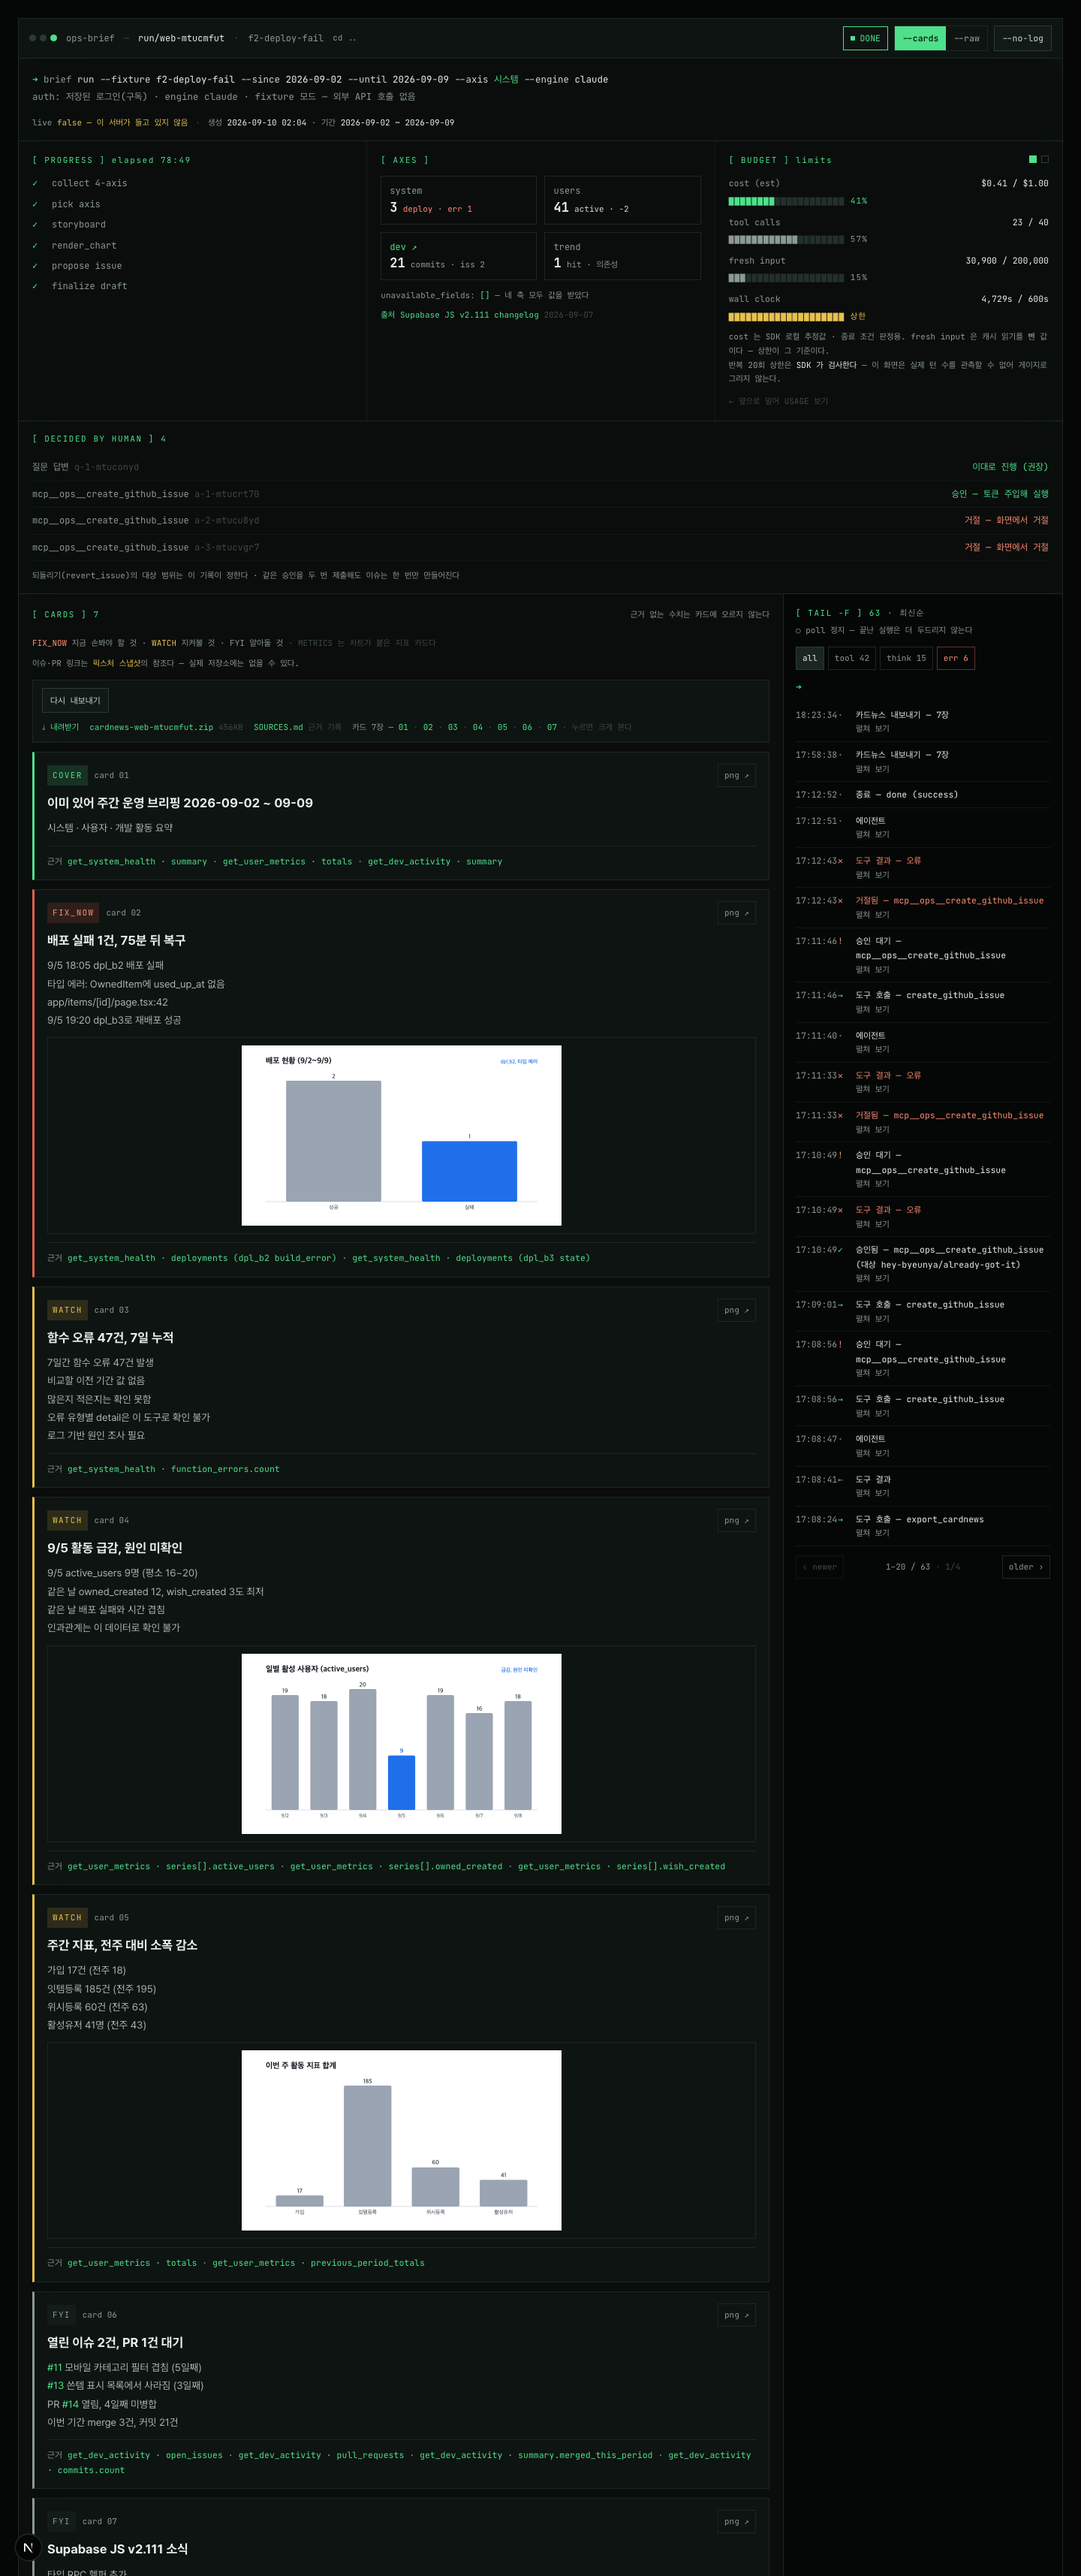
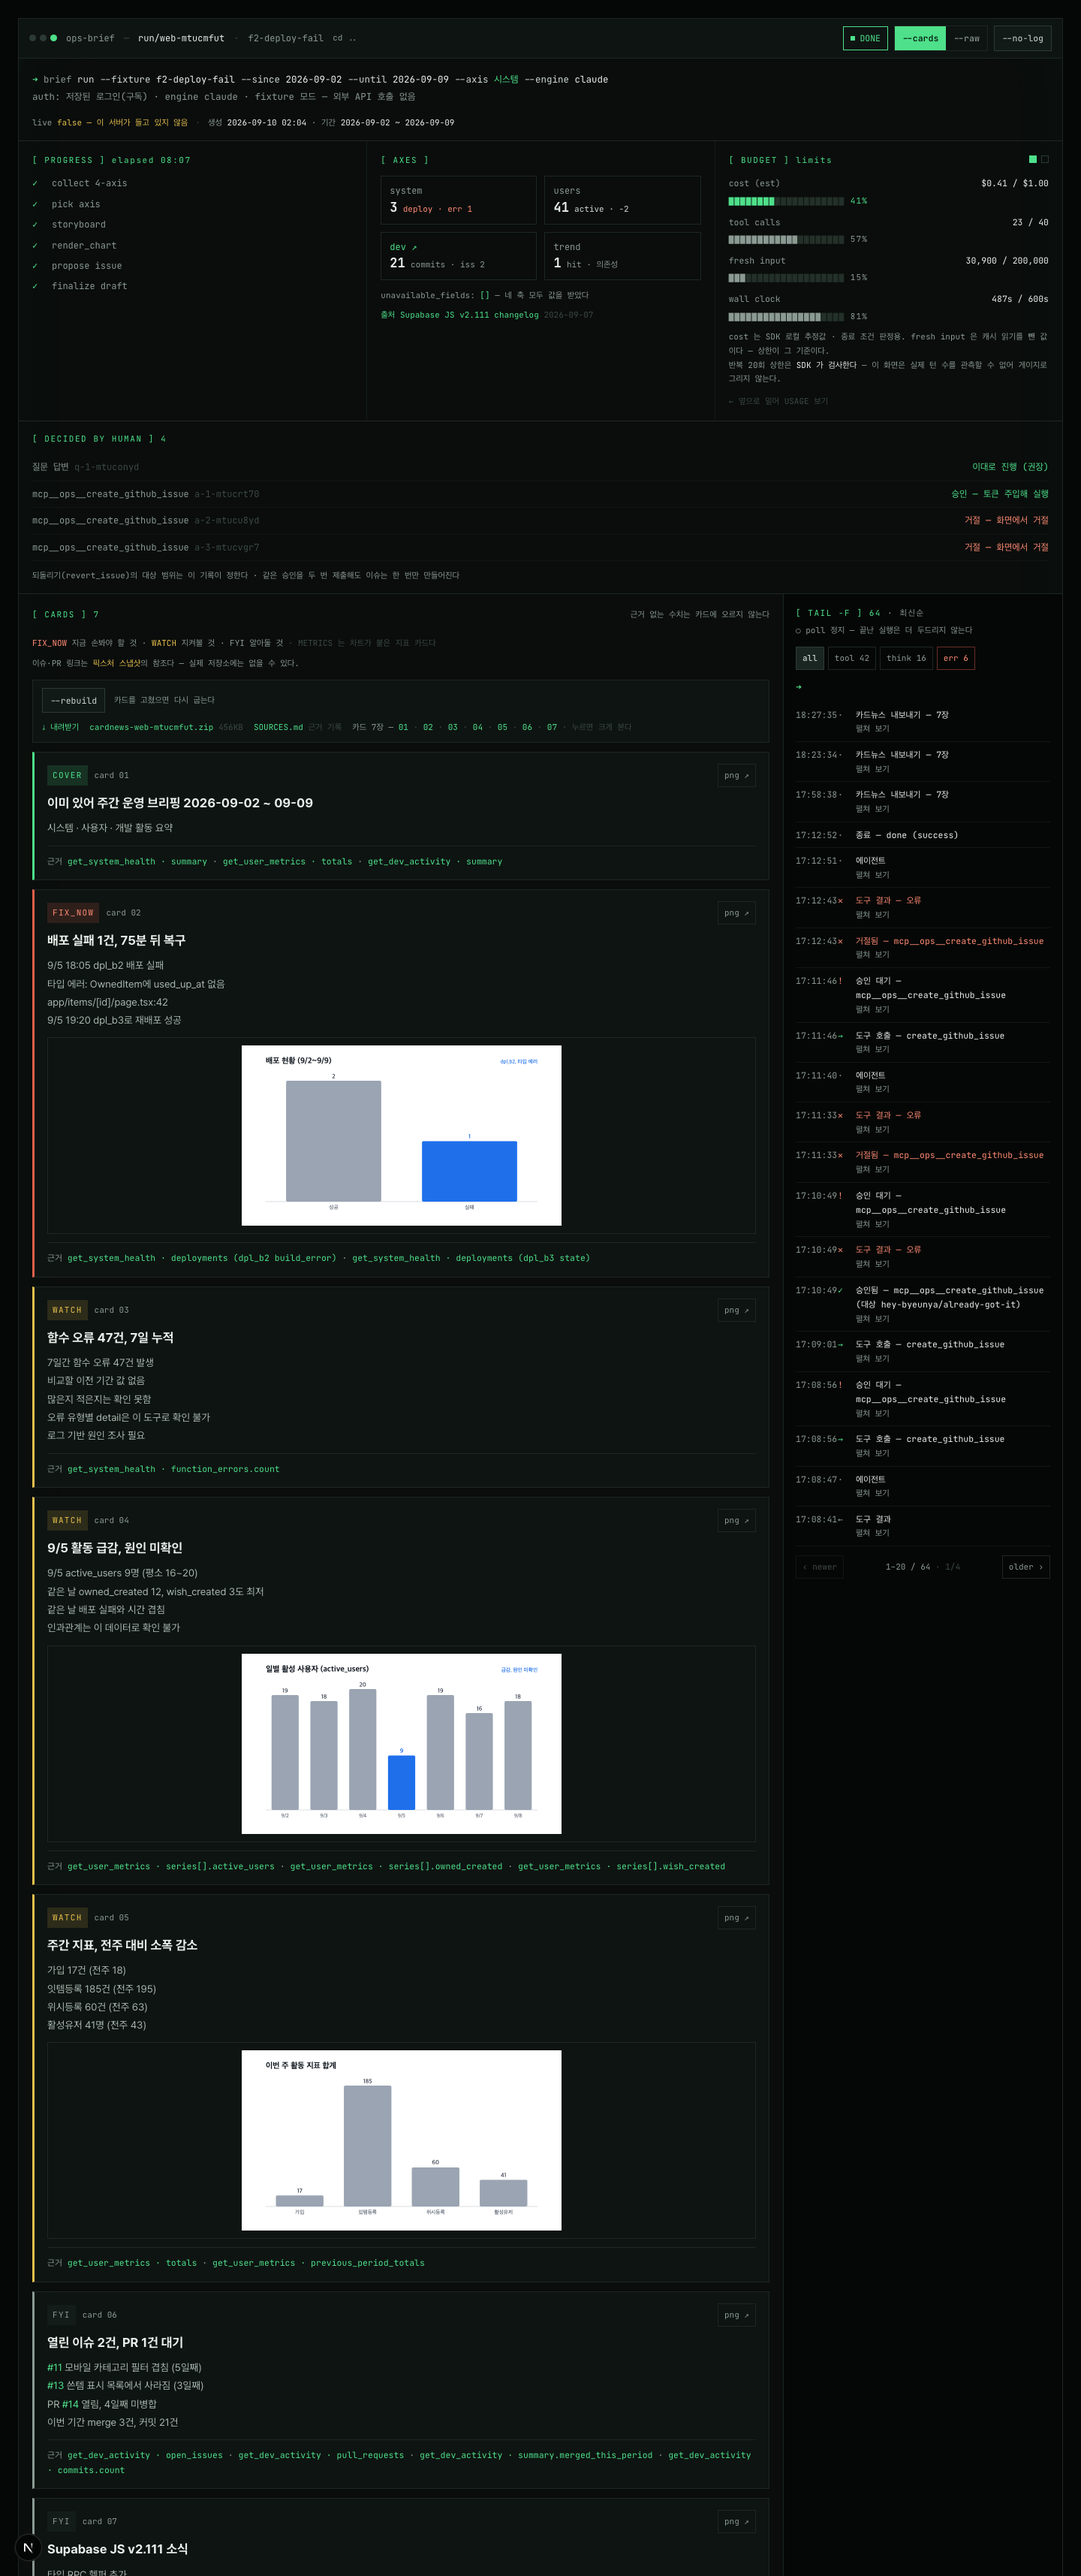
버튼 이름을 디자인 어법으로 · 끝난 실행의 경과 시간 고정
## 이름

디자인은 두 가지 어법을 쓴다 — 세그먼트는 «값»(claude · opencode),
동작 버튼은 «플래그»(--cards · --raw · --resume · --retry · --diff).
한글 다섯 개를 그 어법에 맞췄다.

  최근 1주일 / 최근 15일 / 직접 선택   →  7d · 15d · custom
  카드뉴스 내보내기 (n장)              →  --export 7
  다시 내보내기                        →  --rebuild

버튼에서 뺀 한글은 없애지 않고 옆줄과 툴팁으로 옮겼다 —
디자인에서도 버튼 아래 한글은 설명으로 남아 있다.
  7d  → "최근 1주일 · 2026-09-02 ~ 2026-09-09 · 시작할 때 다시 계산한다"
  --export 7 → "카드 7장을 PNG 로 굽고 ZIP 으로 묶는다"
  --rebuild  → "카드를 고쳤으면 다시 굽는다"

## 고친 것 — wall clock 이 거짓이었다

「wall clock 4,970s / 600s 상한」. 실제로는 487초에 끝난 실행이다.
경과 시간을 created_at → updated_at 으로 계산하는데, updated_at 은 실행이 끝난 뒤에도
카드 내보내기 같은 작업으로 갱신된다. 그래서 상한 안에 끝난 실행이 상한을 넘긴 것처럼 보였다.

- 엔진이 이미 재고 있던 elapsedSeconds 를 RunState.elapsed_seconds 로 저장한다
- 화면은 그 값을 먼저 쓰고, 없을 때만 예전 방식으로 물러난다
- 기존 실행 10건은 **엔진이 남긴 마지막 사건**(finished·stopped·error)까지로 되짚어 채웠다
  (처음엔 마지막 트레이스로 채웠다가 내보내기 이벤트를 끝점으로 잡아 같은 값이 나왔다)

이제 487s / 600s 로 나온다 — CLI 가 보고한 값과 같다.

diff --git a/app/app/runs/[id]/page.tsx b/app/app/runs/[id]/page.tsx
@@ -188,8 +188,11 @@ function ExportBar({ runId, ex, cardCount, exporting, busy, onExport, onPreview 
     <button className={made ? undefined : 'go'}
       disabled={busy || exporting || cardCount === 0}
       onClick={onExport}
-      title={cardCount === 0 ? '내보낼 카드가 없다' : ''}>
-      {exporting ? '굽는 중…' : made ? '다시 내보내기' : `카드뉴스 내보내기 (${cardCount}장)`}
+      title={cardCount === 0
+        ? '내보낼 카드가 없다'
+        : made ? '카드를 PNG 로 다시 굽고 ZIP 을 새로 만든다'
+          : `카드 ${cardCount}장을 PNG · ZIP · 근거 기록으로 내보낸다`}>
+      {exporting ? 'exporting…' : made ? '--rebuild' : `--export ${cardCount}`}
     </button>
   );
 
@@ -200,7 +203,7 @@ function ExportBar({ runId, ex, cardCount, exporting, busy, onExport, onPreview 
         <span className="note">
           {cardCount === 0
             ? '카드가 아직 없다. 카드를 만들면 여기서 PNG · ZIP · 근거 기록을 만든다.'
-            : '누르면 카드를 PNG 로 굽고 ZIP 으로 묶는다. 그 뒤에 내려받을 수 있다.'}
+            : `카드 ${cardCount}장을 PNG 로 굽고 ZIP 으로 묶는다. 그 뒤에 내려받을 수 있다.`}
         </span>
       </div>
     );
@@ -210,11 +213,13 @@ function ExportBar({ runId, ex, cardCount, exporting, busy, onExport, onPreview 
     <div style={{ display: 'flex', flexDirection: 'column', gap: 10 }}>
       <div className="row" style={{ gap: 12 }}>
         {button}
-        {stale && (
-          <span className="note wrn">
-            카드 {cardCount}장 중 {ex.png.length}장만 구워져 있다 — 다시 내보낸다
-          </span>
-        )}
+        {stale
+          ? (
+            <span className="note wrn">
+              카드 {cardCount}장 중 {ex.png.length}장만 구워져 있다 — 다시 굽는다
+            </span>
+          )
+          : <span className="note">카드를 고쳤으면 다시 굽는다</span>}
       </div>
       <div className="note" style={{ display: 'flex', gap: 14, flexWrap: 'wrap', alignItems: 'baseline' }}>
         <span className="ok">⤓ 내려받기</span>
@@ -389,7 +394,10 @@ export default function RunPage({ params }: { params: Promise<{ id: string }> })
   const dead = !s.live;
   const askable = Boolean(s.pending_question) && s.live;
   const approvable = Boolean(s.pending_approval) && s.live;
-  const elapsed = (Date.parse(s.updated_at) - Date.parse(s.created_at)) / 1000;
+  // 엔진이 잰 값이 있으면 그것을 쓴다. updated_at 은 실행이 끝난 뒤에도
+  // 카드 내보내기 같은 작업으로 갱신돼, 끝난 실행의 경과 시간이 계속 늘어난다.
+  const elapsed = s.elapsed_seconds
+    ?? (Date.parse(s.updated_at) - Date.parse(s.created_at)) / 1000;
   const toolCalls = s.trace.filter((e) => e.kind === 'tool_use').length;
   const u = s.usage;
   // 상한이 재는 것은 «캐시 읽기를 뺀» 입력이다 (agent/src/usage.ts 의 freshInputTokens).

diff --git a/app/app/page.tsx b/app/app/page.tsx
@@ -312,15 +312,21 @@ export default function Home() {
 
             <div className="note" style={{ marginBottom: 6 }}>--since / --until</div>
             <div className="row" style={{ gap: 6, marginBottom: 8 }}>
-              {([['7d', '최근 1주일'], ['15d', '최근 15일'], ['custom', '직접 선택']] as const)
-                .map(([k, label]) => (
-                  <button className="seg" key={k} aria-pressed={range === k} onClick={() => setRange(k)}>
-                    {label}
+              {/*
+                --engine 의 claude/opencode 처럼 **값**으로 적는다.
+                디자인에서 버튼에 붙는 한글은 설명이지 이름이 아니다.
+              */}
+              {([['7d', '최근 1주일'], ['15d', '최근 15일'], ['custom', '날짜를 직접 고른다']] as const)
+                .map(([k, hint]) => (
+                  <button className="seg" key={k} aria-pressed={range === k}
+                    title={hint} onClick={() => setRange(k)}>
+                    {k}
                   </button>
                 ))}
             </div>
             {range === 'custom' ? (
-              <div className="row" style={{ gap: 6, marginBottom: 14, flexWrap: 'nowrap' }}>
+              <div className="row" style={{ gap: 6, marginBottom: 14, flexWrap: 'nowrap' }}
+                title="브리핑이 다룰 기간을 직접 고른다">
                 <input type="date" value={since} max={until}
                   onChange={(e) => setSince(e.target.value)} style={{ flex: 1 }} />
                 <span className="fnt">~</span>
@@ -329,6 +335,7 @@ export default function Home() {
               </div>
             ) : (
               <div className="note" style={{ marginBottom: 14 }}>
+                최근 {range === '7d' ? '1주일' : '15일'} ·{' '}
                 {range === '7d' ? daysAgo(7) : daysAgo(15)} ~ {iso(new Date())}
                 <span className="fnt"> · 시작할 때 다시 계산한다</span>
               </div>

diff --git a/app/lib/types.ts b/app/lib/types.ts
@@ -82,6 +82,13 @@ export type RunState = {
   period?: { since: string; until: string };
   /** 지금 카드뉴스를 굽고 있는가. 두 번 눌러 두 번 굽지 않게 한다. */
   cards_exporting?: boolean;
+  /**
+   * 엔진이 잰 실행 시간(초). 대기 시간은 빠져 있다.
+   *
+   * created_at → updated_at 으로 계산하면 안 된다 — updated_at 은 실행이 끝난 뒤에도
+   * 카드 내보내기 같은 작업으로 갱신돼, 600초에 끝난 실행이 «4,970s / 600s 상한» 으로 보인다.
+   */
+  elapsed_seconds?: number;
 };
 
 export type RunLimits = {

diff --git a/app/lib/runner.ts b/app/lib/runner.ts
@@ -193,6 +193,7 @@ export function start(opts: StartOptions): void {
         s.usage = result.usage;
         s.session_id = result.sessionId;
         s.final_text = result.finalText;
+        s.elapsed_seconds = result.elapsedSeconds;
         if (result.stopReason) s.stop_reason = result.stopReason;
         s.charts = collectCharts(runId);
       });
